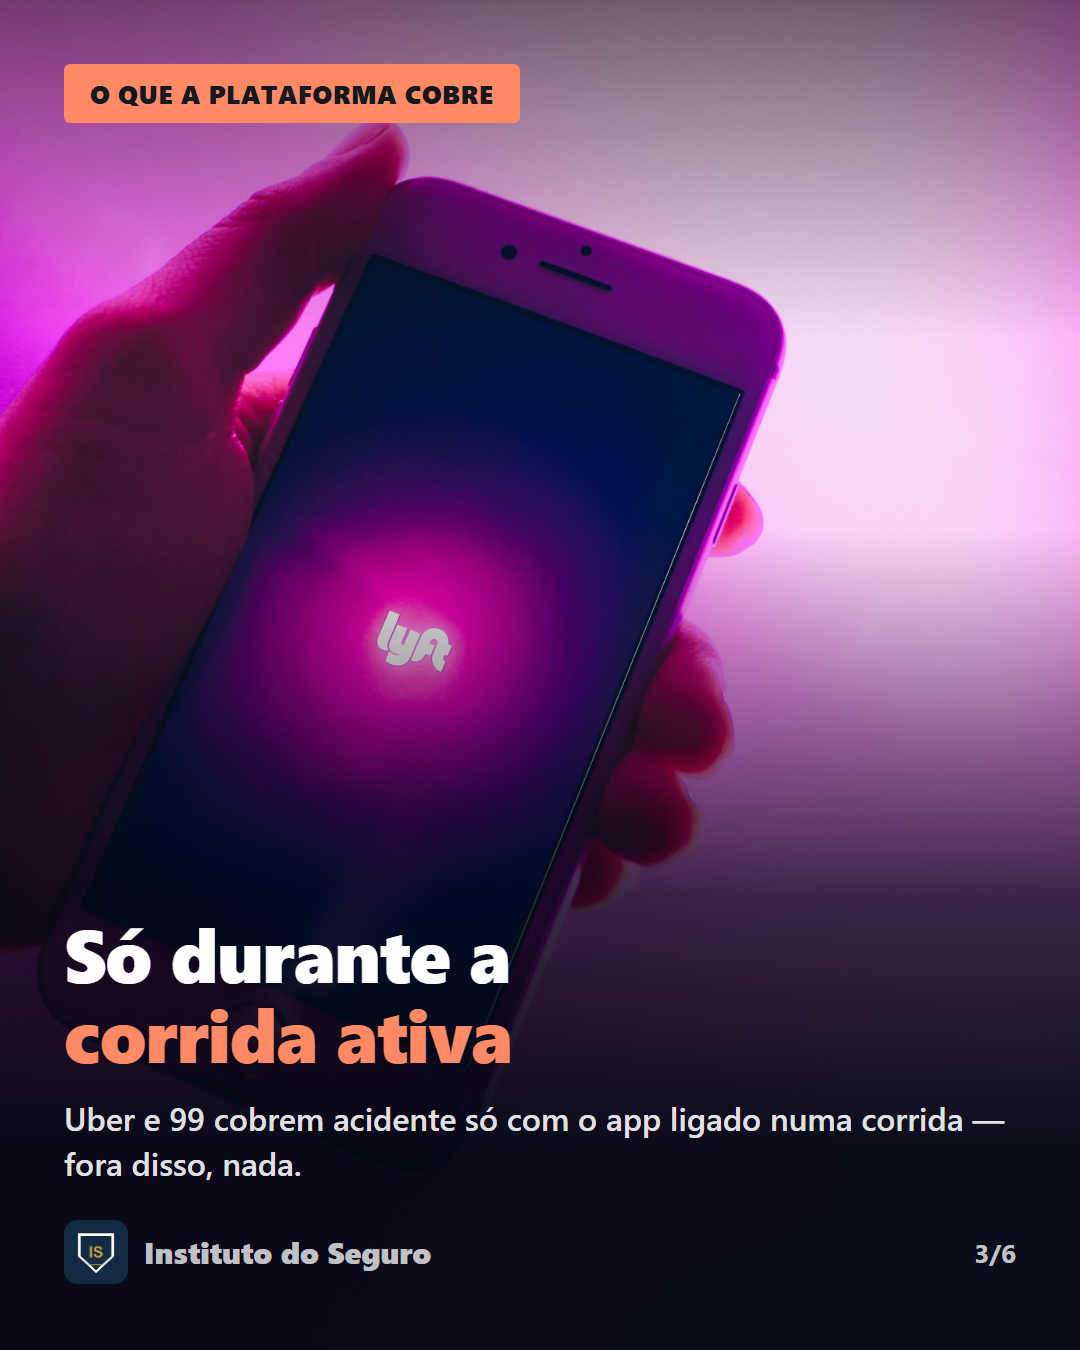
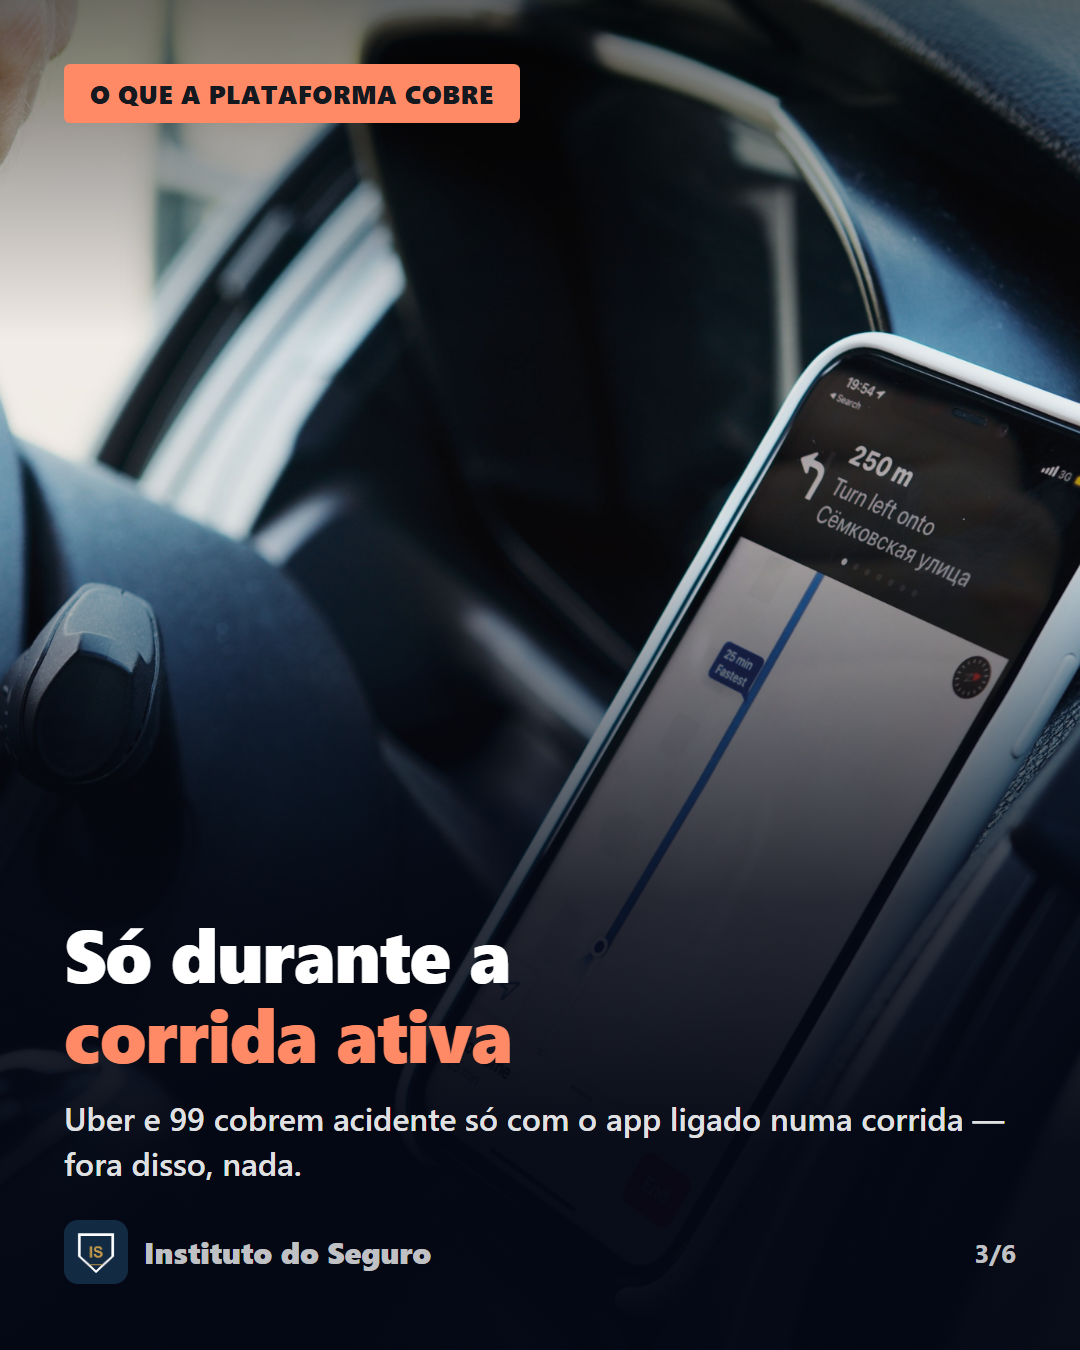
Trocar foto do post 1 (app Lyft descontinuado) por navegacao generica

diff --git a/content/semana-03/post-01-mito-seguro-auto-app/story.html b/content/semana-03/post-01-mito-seguro-auto-app/story.html
@@ -25,7 +25,7 @@
   .brand span { color:rgba(255,255,255,0.75);font-weight:800;font-size:24px; }
 </style></head>
 <body><div class="frame">
-  <img class="bg" src="C:/Users/crist/instituto-do-seguro/content/assets/ref-pexels-rideapp.jpg"><div class="scrim-top-s"></div><div class="scrim-bottom-s"></div>
+  <img class="bg" src="C:/Users/crist/instituto-do-seguro/content/assets/ref-pexels-navigation.jpg"><div class="scrim-top-s"></div><div class="scrim-bottom-s"></div>
   <div class="safe"><div class="tag">MITO OU VERDADE</div></div>
   <div class="bottom">
     <h1>Seguro auto cobre<br>rodar por <span class='hl'>aplicativo?</span></h1>

diff --git a/content/semana-03/post-01-mito-seguro-auto-app/slide-03.html b/content/semana-03/post-01-mito-seguro-auto-app/slide-03.html
@@ -17,7 +17,7 @@
   .brandline { display:flex;justify-content:space-between;align-items:center; }
 </style></head>
 <body><div class="frame">
-  <img class="bg" src="C:/Users/crist/instituto-do-seguro/content/assets/ref-pexels-rideapp.jpg">
+  <img class="bg" src="C:/Users/crist/instituto-do-seguro/content/assets/ref-pexels-navigation.jpg">
   <div class="scrim-top"></div>
   <div class="scrim-bottom"></div>
   <div class="tag">O QUE A PLATAFORMA COBRE</div>

diff --git a/content/semana-03/post-01-mito-seguro-auto-app/slide-01.html b/content/semana-03/post-01-mito-seguro-auto-app/slide-01.html
@@ -17,7 +17,7 @@
   .brandline { display:flex;justify-content:space-between;align-items:center; }
 </style></head>
 <body><div class="frame">
-  <img class="bg" src="C:/Users/crist/instituto-do-seguro/content/assets/ref-pexels-rideapp.jpg">
+  <img class="bg" src="C:/Users/crist/instituto-do-seguro/content/assets/ref-pexels-navigation.jpg">
   <div class="scrim-top"></div>
   <div class="scrim-bottom"></div>
   <div class="tag">MITO OU VERDADE</div>

diff --git a/content/semana-03/post-01-mito-seguro-auto-app/slide-04.html b/content/semana-03/post-01-mito-seguro-auto-app/slide-04.html
@@ -17,7 +17,7 @@
   .brandline { display:flex;justify-content:space-between;align-items:center; }
 </style></head>
 <body><div class="frame">
-  <img class="bg" src="C:/Users/crist/instituto-do-seguro/content/assets/ref-pexels-rideapp.jpg">
+  <img class="bg" src="C:/Users/crist/instituto-do-seguro/content/assets/ref-pexels-navigation.jpg">
   <div class="scrim-top"></div>
   <div class="scrim-bottom"></div>
   <div class="tag">O RISCO REAL</div>

diff --git a/content/semana-03/post-01-mito-seguro-auto-app/slide-05.html b/content/semana-03/post-01-mito-seguro-auto-app/slide-05.html
@@ -17,7 +17,7 @@
   .brandline { display:flex;justify-content:space-between;align-items:center; }
 </style></head>
 <body><div class="frame">
-  <img class="bg" src="C:/Users/crist/instituto-do-seguro/content/assets/ref-pexels-rideapp.jpg">
+  <img class="bg" src="C:/Users/crist/instituto-do-seguro/content/assets/ref-pexels-navigation.jpg">
   <div class="scrim-top"></div>
   <div class="scrim-bottom"></div>
   <div class="tag">O QUE FAZER</div>

diff --git a/content/semana-03/post-01-mito-seguro-auto-app/slide-06.html b/content/semana-03/post-01-mito-seguro-auto-app/slide-06.html
@@ -17,7 +17,7 @@
   .brandline { display:flex;justify-content:space-between;align-items:center; }
 </style></head>
 <body><div class="frame">
-  <img class="bg" src="C:/Users/crist/instituto-do-seguro/content/assets/ref-pexels-rideapp.jpg">
+  <img class="bg" src="C:/Users/crist/instituto-do-seguro/content/assets/ref-pexels-navigation.jpg">
   <div class="scrim-top"></div>
   <div class="scrim-bottom"></div>
   <div class="tag">GUARDA ISSO</div>

diff --git a/content/semana-03/post-01-mito-seguro-auto-app/slide-02.html b/content/semana-03/post-01-mito-seguro-auto-app/slide-02.html
@@ -17,7 +17,7 @@
   .brandline { display:flex;justify-content:space-between;align-items:center; }
 </style></head>
 <body><div class="frame">
-  <img class="bg" src="C:/Users/crist/instituto-do-seguro/content/assets/ref-pexels-rideapp.jpg">
+  <img class="bg" src="C:/Users/crist/instituto-do-seguro/content/assets/ref-pexels-navigation.jpg">
   <div class="scrim-top"></div>
   <div class="scrim-bottom"></div>
   <div class="tag">A RESPOSTA</div>

diff --git a/scripts/build_lote_03_fix.py b/scripts/build_lote_03_fix.py
@@ -31,7 +31,7 @@ def make_html_and_render(out_dir, name, html):
 
 def build_post_01_mito_app():
     out = os.path.join(CONTENT, "semana-03", "post-01-mito-seguro-auto-app")
-    photo = p("ref-pexels-rideapp.jpg")
+    photo = p("ref-pexels-navigation.jpg")
     total = 6
     slides = [
         photo_slide(LOGO, photo, "MITO OU VERDADE", "Seu seguro auto cobre<br>rodar por <span class='hl'>aplicativo</span>?",
